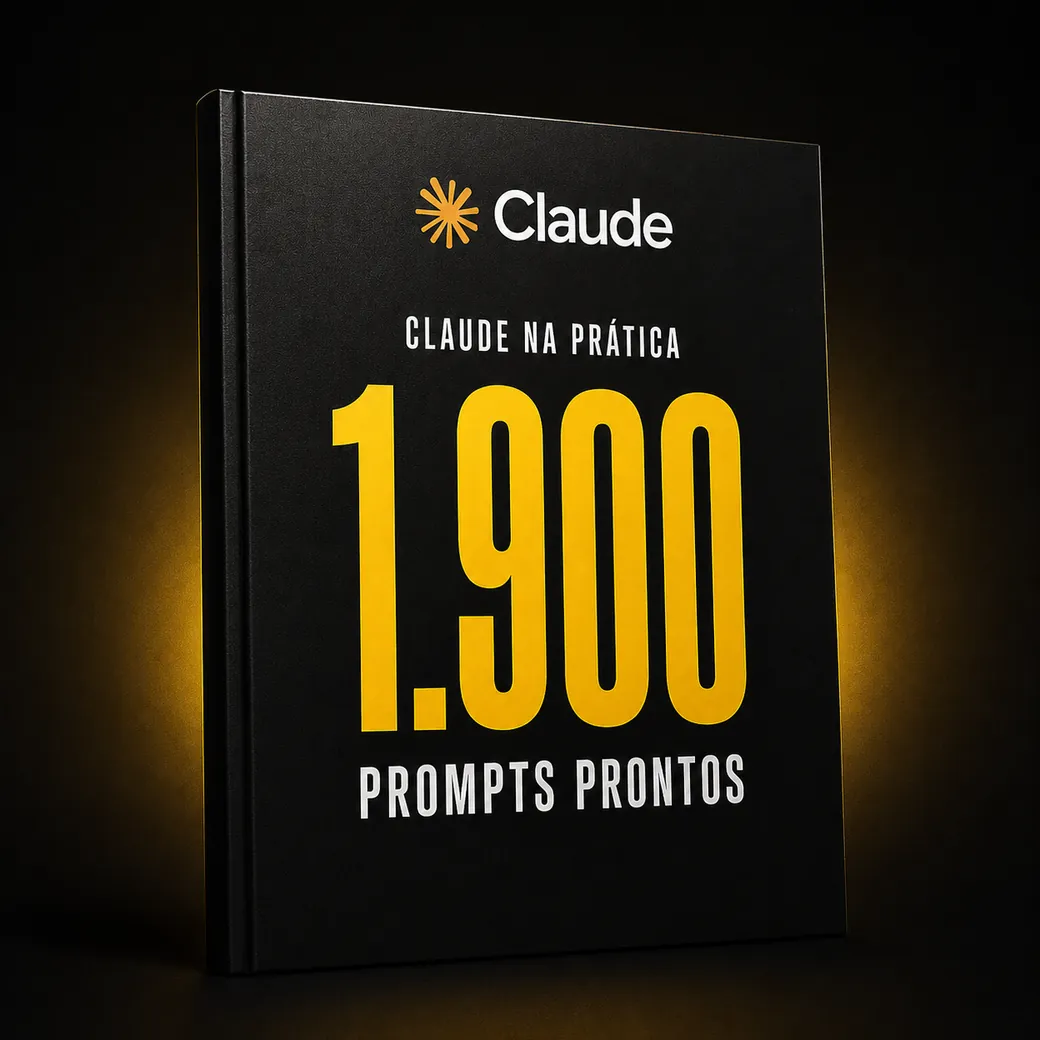
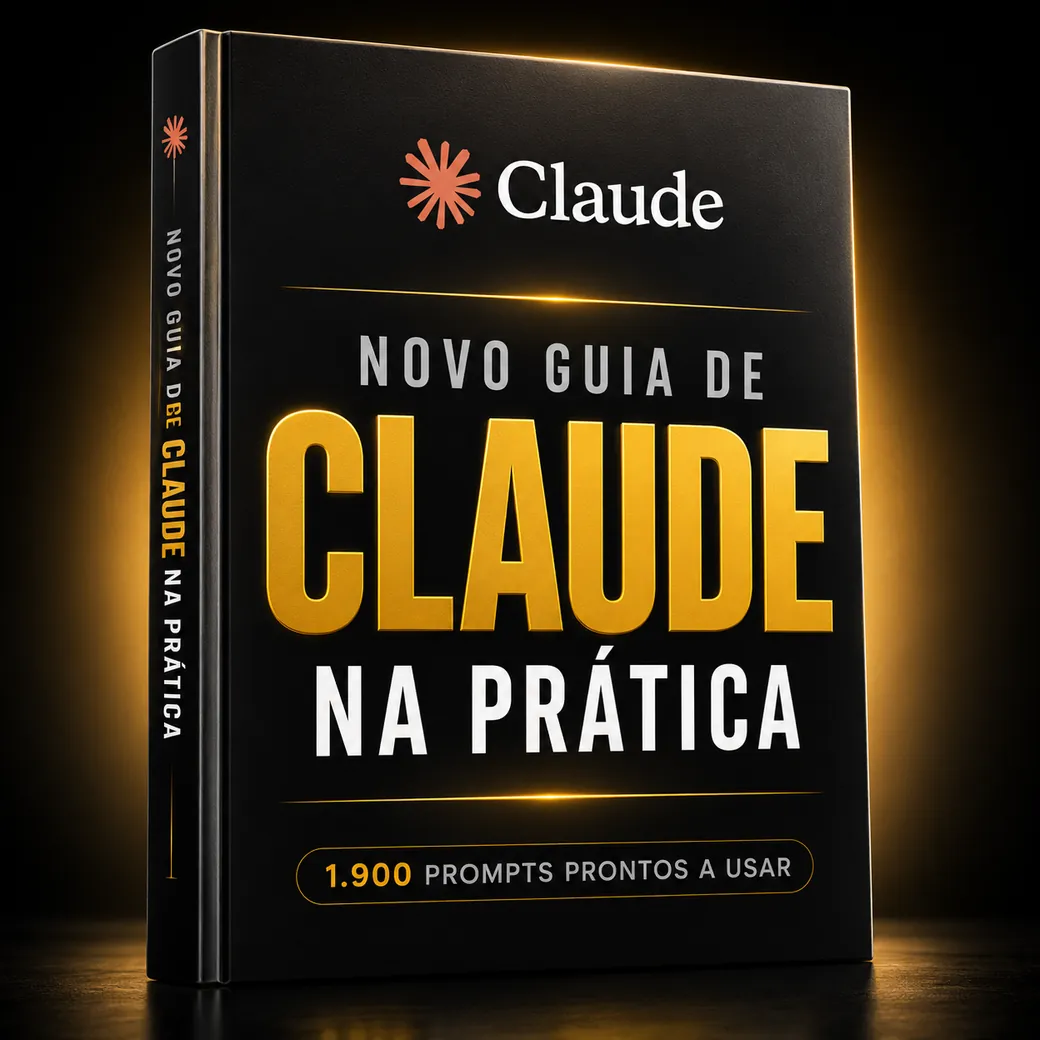
Substitui foto do produto no hero pela nova capa

diff --git a/index.html b/index.html
@@ -717,12 +717,12 @@ footer{border-top:1px solid hsl(var(--border));padding:36px 0 28px;}
       <div class="card tcard">
         <div>
           <div class="tstars" aria-label="5 em 5 estrelas"><svg viewBox="0 0 24 24" fill="currentColor"><path d="m12 2.5 2.9 6 6.6.9-4.8 4.6 1.2 6.5-5.9-3.1-5.9 3.1 1.2-6.5L2.5 9.4l6.6-.9z"/></svg><svg viewBox="0 0 24 24" fill="currentColor"><path d="m12 2.5 2.9 6 6.6.9-4.8 4.6 1.2 6.5-5.9-3.1-5.9 3.1 1.2-6.5L2.5 9.4l6.6-.9z"/></svg><svg viewBox="0 0 24 24" fill="currentColor"><path d="m12 2.5 2.9 6 6.6.9-4.8 4.6 1.2 6.5-5.9-3.1-5.9 3.1 1.2-6.5L2.5 9.4l6.6-.9z"/></svg><svg viewBox="0 0 24 24" fill="currentColor"><path d="m12 2.5 2.9 6 6.6.9-4.8 4.6 1.2 6.5-5.9-3.1-5.9 3.1 1.2-6.5L2.5 9.4l6.6-.9z"/></svg><svg viewBox="0 0 24 24" fill="currentColor"><path d="m12 2.5 2.9 6 6.6.9-4.8 4.6 1.2 6.5-5.9-3.1-5.9 3.1 1.2-6.5L2.5 9.4l6.6-.9z"/></svg></div>
-          <p class="tquote" style="margin-top:14px;">&laquo;Comprei sem grandes expectativas e acabei por ficar surpreendida. Os exemplos práticos são muito úteis e consegui começar a utilizar os Projetos logo no primeiro dia.&raquo;</p>
+          <p class="tquote" style="margin-top:14px;">&laquo;Comprei sem grandes expectativas e acabei por ficar surpreendido. Os exemplos práticos são muito úteis e consegui começar a utilizar os Projetos logo no primeiro dia.&raquo;</p>
         </div>
         <div class="tperson">
-          <img class="tavatar" src="img/depoimento-2.webp" alt="Fotografia de Ana C." width="48" height="48" loading="lazy" decoding="async">
+          <img class="tavatar" src="img/depoimento-2.webp" alt="Fotografia de André C." width="48" height="48" loading="lazy" decoding="async">
           <div>
-            <div class="tname">Ana C.</div>
+            <div class="tname">André C.</div>
             <div class="trole">Lisboa</div>
           </div>
         </div>
